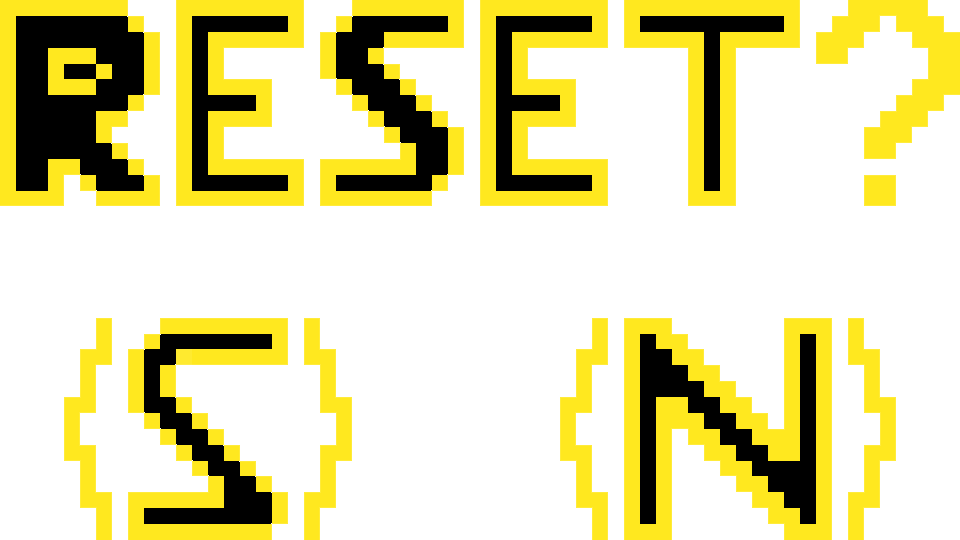
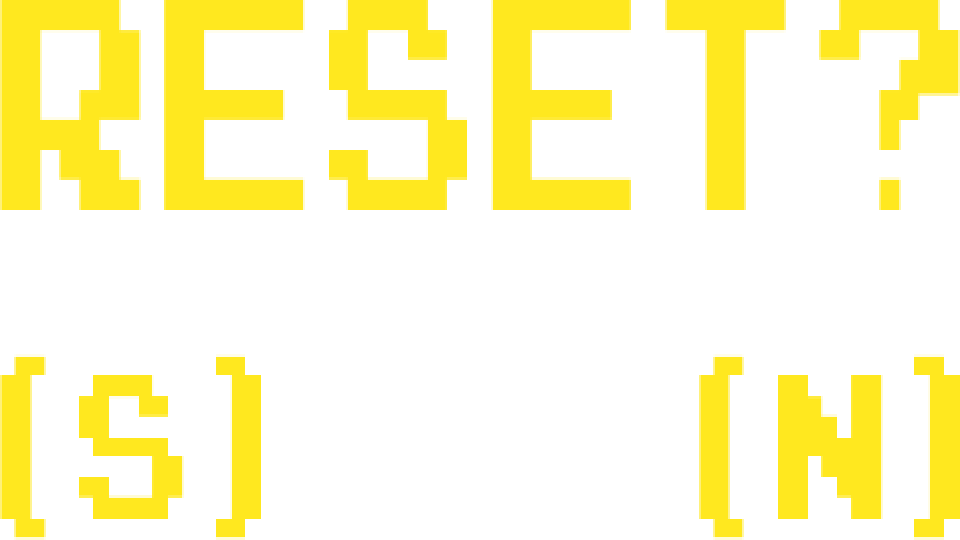
mudei as imagens para uma fonte nova . Este código tem a falha dos vários tiros dependendo do tempo de pausa

diff --git a/joguinho.cpp b/joguinho.cpp
@@ -159,7 +159,7 @@ GLboolean checarColisaoPlayerNaves(Player player, Enemies enemy){
     bool colisaoY = (player.posicaoY + (player.alt)/2 >= enemy.posicaoY - (enemy.alt)/2) && (enemy.posicaoY + (enemy.larg)/2 >= player.posicaoY - (enemy.alt)/2);
 	return colisaoX && colisaoY;
 }
-//Função que muda a posição do jogador
+//Função que muda a posição do jogador baseada em uma constante de movimento
 void mover(){
 	if(direita==1 && jogador.posicaoX<1700)
 		jogador.posicaoX+=movimentoJogador;
@@ -273,25 +273,35 @@ void draw(){
 			as opções do menu*/
 			if(aux==1){
 				if(selecao==1)
-					desenhaTexturaEstatica(960,540,103,33,imagemIniciarSel);
+					desenhaTexturaEstatica(960,540,150,33,imagemIniciarSel);
 				else
-					desenhaTexturaEstatica(960,540,103,33,imagemIniciar);
+					desenhaTexturaEstatica(960,540,150,33,imagemIniciar);
 				if(selecao==2)
-					desenhaTexturaEstatica(960,500,115,33,imagemOpcoesSel);
+					desenhaTexturaEstatica(960,485,115,55,imagemOpcoesSel);
 				else
-					desenhaTexturaEstatica(960,500,115,33,imagemOpcoes);
+					desenhaTexturaEstatica(960,485,115,55,imagemOpcoes);
 				if(selecao==3)
-					desenhaTexturaEstatica(960,460,180,33,imagemInstrucaoSel);
+					desenhaTexturaEstatica(960,430,180,55,imagemInstrucaoSel);
 				else
-					desenhaTexturaEstatica(960,460,180,33,imagemInstrucao);
+					desenhaTexturaEstatica(960,430,180,55,imagemInstrucao);
 				if(selecao==4)
-					desenhaTexturaEstatica(960,420,95,33,imagemSairMenuSel);
+					desenhaTexturaEstatica(960,380,95,33,imagemSairMenuSel);
 				else
-					desenhaTexturaEstatica(960,420,95,33,imagemSairMenu);
+					desenhaTexturaEstatica(960,380,95,33,imagemSairMenu);
 			}
 		}
 	}
-	if(telaAtual==4){
+	else if(telaAtual==2){
+		if(selecao==1)
+			desenhaTexturaEstatica(960,540,103,33,imagemDificuldadeSel);
+		else
+			desenhaTexturaEstatica(960,540,103,33,imagemDificuldade);
+		if(selecao==2)
+			desenhaTexturaEstatica(960,540,103,33,imagemCreditoSel);
+		else
+			desenhaTexturaEstatica(960,540,103,33,imagemCredito);
+	}
+	else if(telaAtual==4){
 		if(sair==0 && reset==0 && pausa==0){
 			desenhaTexturaEstatica(jogador.posicaoX,jogador.posicaoY,jogador.larg,jogador.alt,jogador.textura);
 			for(int i=0;i<inimigos.size();i++){
@@ -310,7 +320,7 @@ void draw(){
 		}
 		if(sair==0 && reset==0 && pausa==1){
 			Mix_PauseMusic();
-			desenhaTexturaEstatica(960,540,960,540,imagemPause);
+			desenhaTexturaEstatica(960,540,960,180,imagemPause);
 		}
 	}
 	glutSwapBuffers();
